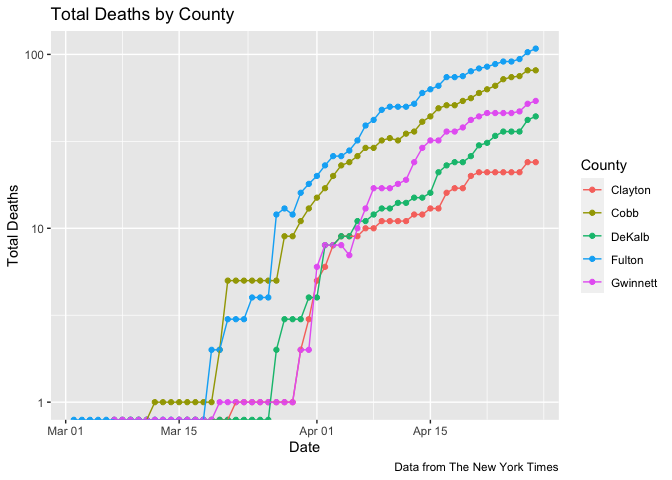
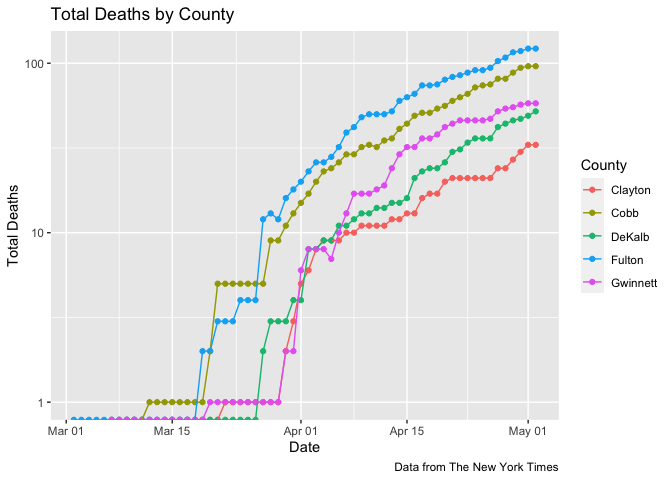
Ran with new data

diff --git a/Metro_Atlanta_COVID.md b/Metro_Atlanta_COVID.md
@@ -16,7 +16,7 @@ It’s hard to know how to interpret these numbers since there are major
 known unknowns. Neither confirmed cases nor deaths can be said to be
 reliable counts of the true numbers.
 
-Data current as of April 29,
+Data current as of May 03,
 2020.
 
 # Metro Atlanta
